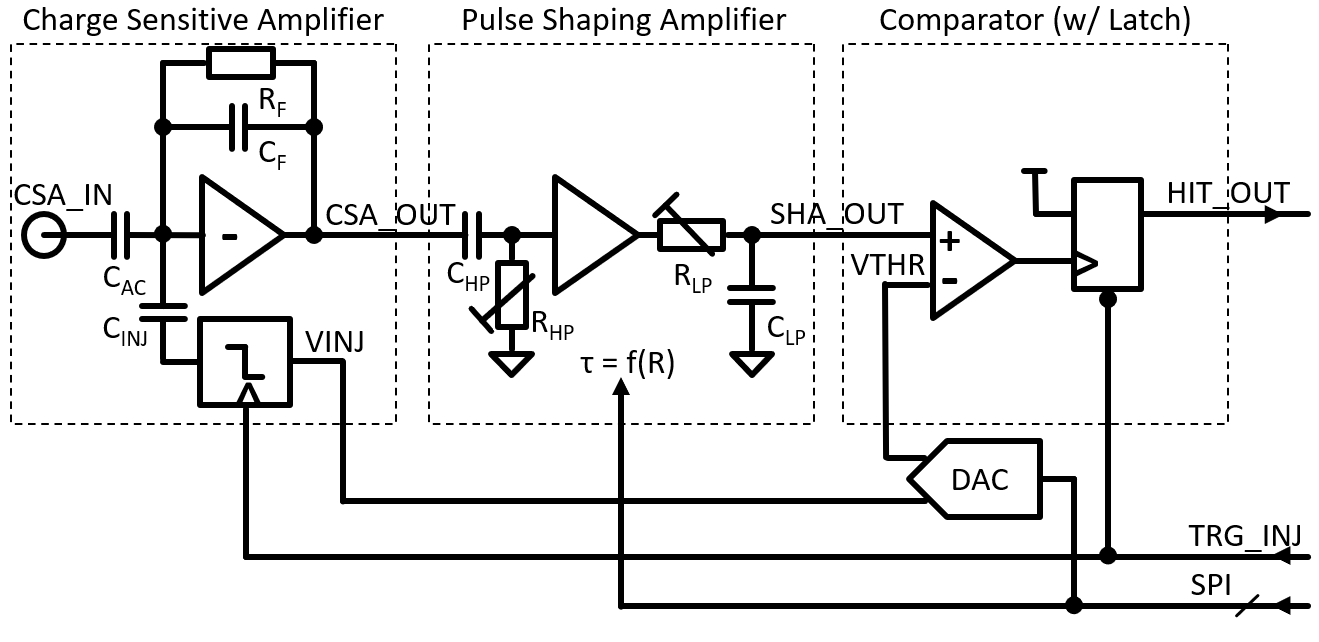
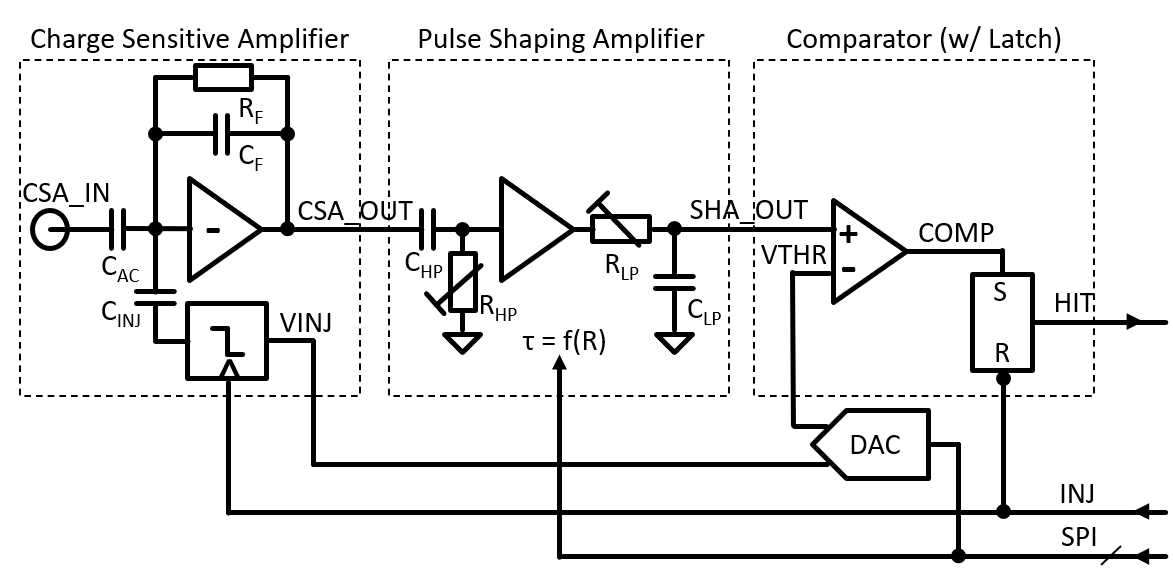
add AFE docu

Changed region(s): [[0.0, 0.0, 1.0, 0.9965]]

diff --git a/docs/source/afe.rst b/docs/source/afe.rst
@@ -31,7 +31,24 @@ The shaping amplifier consists of a high pass filter (HPF) and a low pass filter
 
   U_{SHA}(t) = U_{CSA} \cdot g \cdot \frac{t}{\tau_{SHA}} \cdot \exp{\frac{-t}{\tau_{SHA}}}.
 
-The final block is the comparator (COMP) which compares the output signal of the shaping amplifier **SHA_OUT** with a programmable threshold voltage **VTHR**. When a signal arrives, the comparator output signal goes high as long as the SHA output is above the threshold. For a fixed threshold the length of the comparator output signal therefore is a function and the signal amplitude. Some systems detect this pulse width (aka TOT, time over threshold) to get a measure of the incident charge. To enable the hit detection with polling the GPIO pins, the comparator output is asynchronously latched with a flip flop. Its output signal **HIT_OUT** is then finally read by the GPIO interface. Before the latched comparator is able to detect new hits, it needs a reset by puling the **TRG_INJ** signal low. 
+The final block is the comparator (COMP) which compares the output signal of the shaping amplifier **SHA_OUT** with a programmable threshold voltage **VTHR**. When a signal arrives, the comparator output signal goes high as long as the shaper output is above the threshold. For a fixed threshold the length of the comparator output signal therefore is a function of the signal amplitude. Some systems detect this pulse width (aka TOT, time over threshold) to get a measure of the incident charge. The logic which latches the comparator output is implemented in a CPLD (Complex Programmable Logic Device). This IC is programmed as depicted in the schematic diagram below.
+
+.. figure:: images/AFE_digital.png
+    :width: 600
+    :align: center
+
+There is a set-reset flip-flop which is asychronously set by the output of the comparator **COMP**. The SR flip-flop output signal **HIT** stays high until it is reset by the **INJ** line going low. Parallel to the SR flip-flop the **COMP** signal enables an 8-bit counter which output is incremented by a 40 MHz clock signal **CLK** thereby measuring the comparator output pulse width (TOT, time-over-threshold). The **TOT** value can be read out via the SPI interface which is also implemented in the CPLD (**CS_B**, **SCLK** and **MISO**). The high to low transistion from **INJ** also resets the TOT counter.
+
+A charge injection cycle would look like this:
+
+0. Ensure **INJ** is low to reset **HIT** output and TOT counter.
+1. Set threshold, injection level (and shaping constant) as required.
+2. To trigger the injection of a negative charge signal switch **INJ** to high.
+3. Poll for the **HIT** going high. Use a proper time-out period in case the injected signal is below threshold and no comparator output signal is generated.
+4. If **HIT** is high store the information and read the TOT count via the SPI bus (optional).
+5. Set **INJ** back to low to reset the **HIT** signal and the TOT counter.
+6. Since the CSA also resonds to positive charge injection (**INJ** going low), wait for ~ 200 µs to allow the circuit to settle before triggering the next injection. 
+
 
 The electrical interface to control the AFE consist of an 
 
@@ -40,8 +57,8 @@ The electrical interface to control the AFE consist of an
   * SHA time constant by selecting resistor values via a multiplexer
   * digital to analog converter (DAC) which sets the injection step voltage **VINJ** and the comparator threshold **VTHR**
 
-* **TRG_INJ** signal (**GPIO5**, from Rpi to AFE module) which triggers the injection signal and resets the comparator latch
-* **HIT_OUT** signal (**GPIO4**, from AFE module to Rpi) for reading the digital hit output
+* **INJ** signal (**GPIO5**, from Rpi to AFE module) which triggers the injection signal and resets the comparator latch
+* **HIT** signal (**GPIO4**, from AFE module to Rpi) for reading the digital hit output
   
 
 .. figure:: images/AFE_simple_schematic.png
